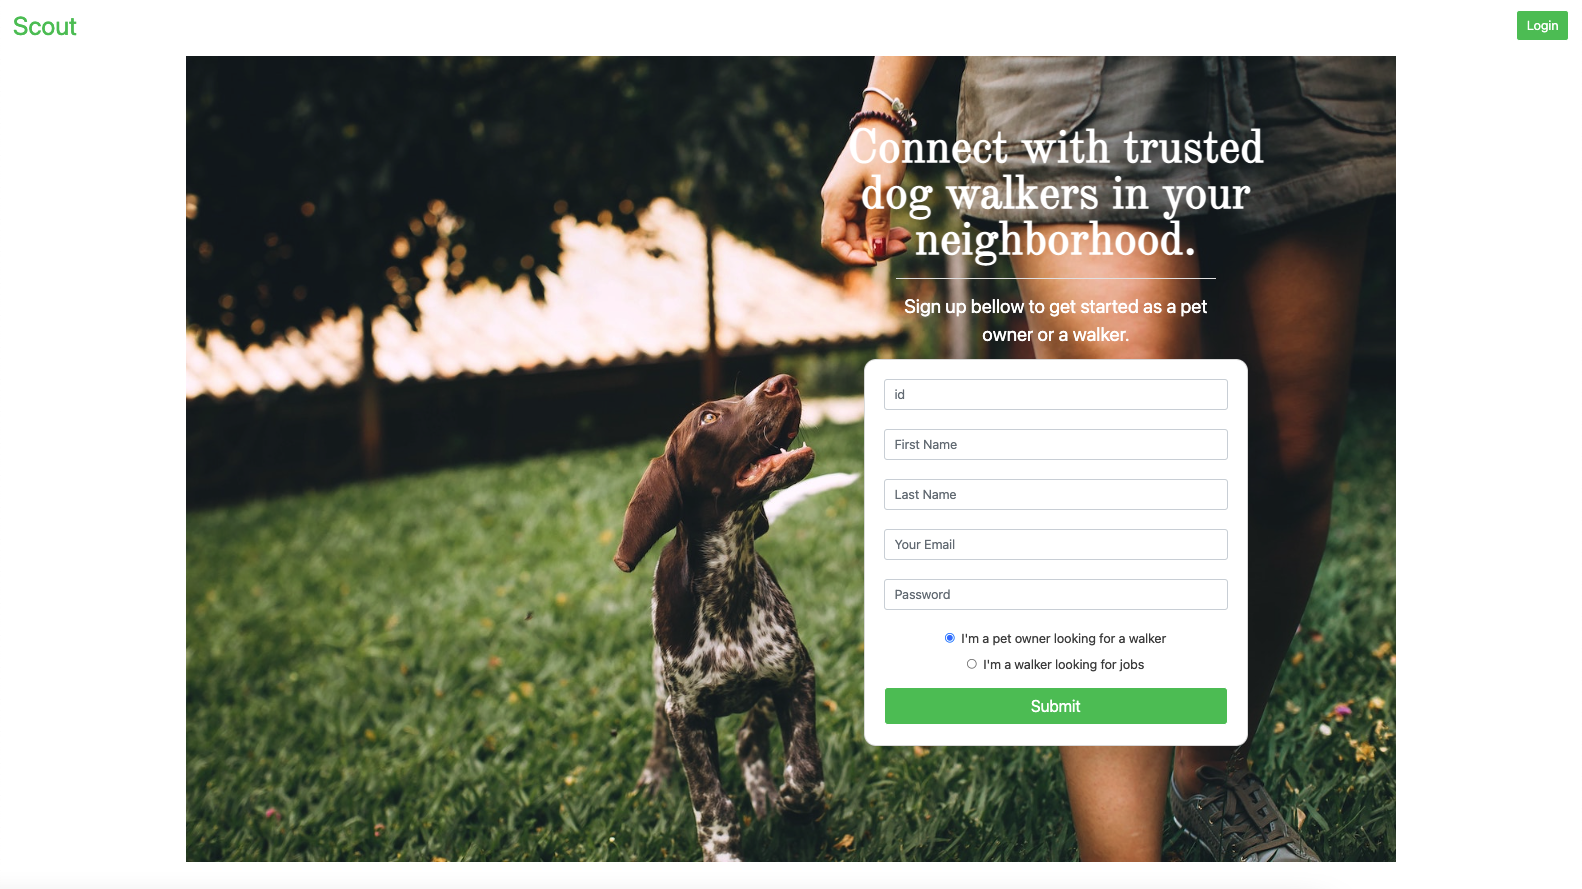
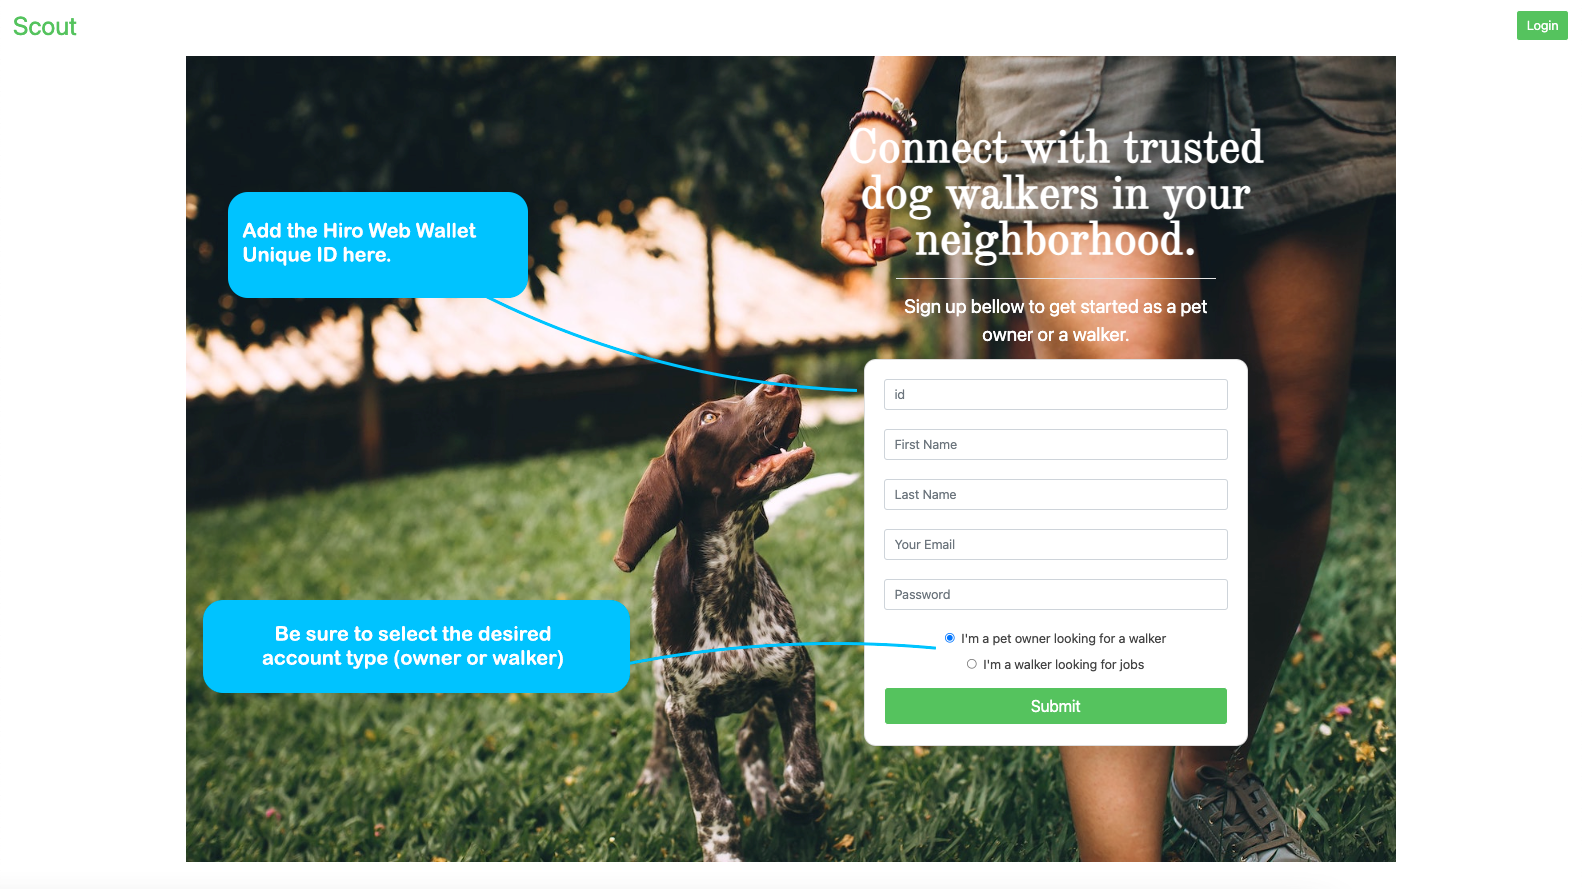
README update

diff --git a/README.md b/README.md
@@ -1,5 +1,13 @@
-# Scout Application: 
+# Scout Application 
 # Walks - of - Love - Frontend Repository
+
+This repository uses React to support the Frontend UI and has been seperated from the Backend repository to mimic the structure of a real world development team. Hiro Wallet, a web extension, has been used to handle account authorization. 
+
+Hiro web wallet is unique because it was built for Stacks (STX), which a a cryptocurrency / blockchain that uses Bitcoin as its security layer. When a user creates an account with Hiro they are provided a 24 word seed phrase which is hashed to create a pair of public and private keys. Multiple accounts can be set up within the wallet and each account has a unique ID, which is perfect for single sign on and security.
+
+Using Hiro, the user can copy their public key (unique ID for each account), add it to the ID field on the hompage, enter their first and last name, email, password, and identify whether they are a pet owner or pet walker. Once the user submits the form, then their information is stored in the Database on the given API endpoint: /api/owner or /api/walker. Suggestion: create 2 accounts within the Hiro web wallet, sign Account 1 up as an Owner, and sign Account 2 up as a Walker.
+
+As long as the user has completed the form appropriately, they should be able to select Login, choose Account 1 or Account 2 from the Hiro Web Wallet modal, and the webpage should transition them to the given dashboard (owner/walker). From the Owner perspective, the user can create pets, create jobs based on the select pet, and delete jobs as needed. From the Walker perspective, the user can view the list of jobs available. Accept and delete functionality has not been added at the moment. 
 
 ## Pre-requisite 
 ### Step 1
